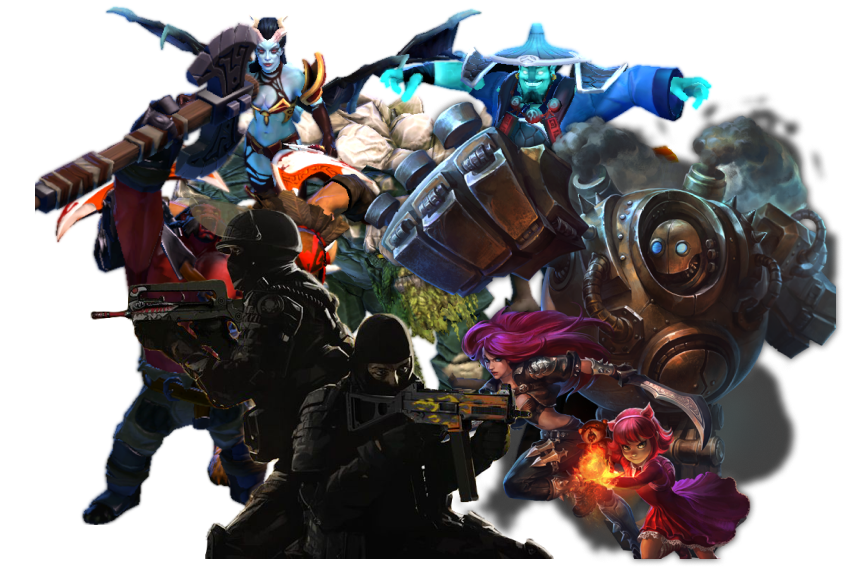
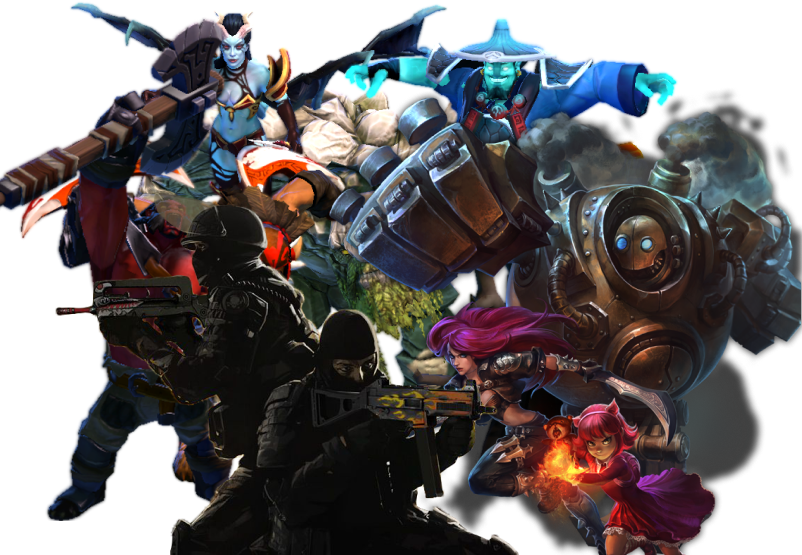
feat: edit hero bg, hero auto width

diff --git a/css/blocks/_hero.scss b/css/blocks/_hero.scss
@@ -6,54 +6,44 @@
     position: relative;
     height: 100vh;
     height: calc(95vh - 110px);
-    max-height: 1080px;
     margin: 0 auto;
     margin-top: 44px;
     padding-bottom: 44px;
     margin-bottom: 64px;
     position: relative;
     width: 1280px;
-    background: right bottom / 55% auto no-repeat
-    url('./../assets/img/hero__bg.png');
-    &::before {
-      position: absolute;
-      content: '';
-      transition: 0.5s;
-      z-index: 10;
-      background-color: $green;
-      border-radius: 4px 0 0 4px;
-      height: 8px;
-      width: 50%;
-      right: 0;
-      bottom: 0px;
-    }
 
-    &--main {
-      background: right bottom / 55% auto no-repeat
-        url('./../assets/img/hero__bg.png');
+    &--width {
+      height: 696px;
     }
-    &--csgo {
-      background: right bottom / 50% auto no-repeat
-        url('./../assets/img/hero__bg--csgo.png');
-      &::before {
-        background-color: $csgo;
-        // bottom: -3px;
-      }
-    }
-    &--dota {
-      background: right bottom / 50% auto no-repeat
-        url('https://it-events.com/system/event_photos/imgs/000/013/288/original/hero__bg--dota.png');
-        &::before {
-          background-color: $dota;
-        }
-    }
-    &--lol {
-      background: right bottom / 45% auto no-repeat
-        url('https://it-events.com/system/event_photos/imgs/000/013/287/original/hero__bg--lol.png');
-        &::before {
-          background-color: $lol;
-        }
-    }
+    // background: right bottom / 55% auto no-repeat
+    // url('./../assets/img/hero__bg.png');
+
+    // &--main {
+    //   background: right bottom / 55% auto no-repeat
+    //     url('./../assets/img/hero__bg.png');
+    // }
+    // &--csgo {
+    //   background: right bottom / 50% auto no-repeat url('./../assets/img/hero__bg--csgo.png');
+    //   &::before {
+    //     background-color: $csgo;
+    //     // bottom: -3px;
+    //   }
+    // }
+    // &--dota {
+    //   background: right bottom / 50% auto no-repeat
+    //     url('https://it-events.com/system/event_photos/imgs/000/013/288/original/hero__bg--dota.png');
+    //     &::before {
+    //       background-color: $dota;
+    //     }
+    // }
+    // &--lol {
+    //   background: right bottom / 45% auto no-repeat
+    //     url('https://it-events.com/system/event_photos/imgs/000/013/287/original/hero__bg--lol.png');
+    //     &::before {
+    //       background-color: $lol;
+    //     }
+    // }
   }
   &__content {
     width: 50%;
@@ -65,20 +55,59 @@
   &__bg {
     width: 50%;
     display: flex;
-    background: bottom -10px right / contain no-repeat url('https://it-events.com/system/event_photos/imgs/000/013/286/original/hero__bg.png');
+    // background: bottom -10px right / contain no-repeat url('https://it-events.com/system/event_photos/imgs/000/013/286/original/hero__bg.png');
   }
   &__pic {
     display: flex;
     align-items: flex-end;
-    height: 50%;
+    height: 68%;
     width: 100%;
     overflow: hidden;
+    position: relative;
+    padding-bottom: 8px;
+
+    background: center / contain no-repeat url('./../assets/img/hero__bg.png');
+    align-self: center;
+    &::before {
+      position: absolute;
+      content: '';
+      z-index: 10;
+      background-color: $green;
+      border-radius: 4px 0 0 4px;
+      height: 8px;
+      width: 100%;
+      right: 0;
+      bottom: 0px;
+    }
+    &--main {
+      background: center / contain no-repeat url('./../assets/img/hero__bg.png');
+    }
+    &--csgo {
+      background: center / contain no-repeat url('./../assets/img/hero__bg--csgo.png');
+      &::before {
+        background-color: $csgo;
+      }
+    }
+    &--dota {
+      background: center / contain no-repeat
+        url('https://it-events.com/system/event_photos/imgs/000/013/288/original/hero__bg--dota.png');
+      &::before {
+        background-color: $dota;
+      }
+    }
+    &--lol {
+      background: center / contain no-repeat
+        url('https://it-events.com/system/event_photos/imgs/000/013/287/original/hero__bg--lol.png');
+      &::before {
+        background-color: $lol;
+      }
+    }
   }
-  &__img {
-    height: 100%;
-    width: 100%;
-    object-fit: contain;
-  }
+  // &__img {
+  //   height: 100%;
+  //   width: 100%;
+  //   object-fit: contain;
+  // }
   &__title {
     font-weight: bold;
     font-size: 49px;

diff --git a/css/main.css b/css/main.css
@@ -2626,55 +2626,16 @@ h3 {
   position: relative;
   height: 100vh;
   height: calc(95vh - 110px);
-  max-height: 1080px;
   margin: 0 auto;
   margin-top: 44px;
   padding-bottom: 44px;
   margin-bottom: 64px;
   position: relative;
   width: 1280px;
-  background: right bottom/55% auto no-repeat url("./../assets/img/hero__bg.png");
 }
 
-.hero-section::before {
-  position: absolute;
-  content: '';
-  transition: 0.5s;
-  z-index: 10;
-  background-color: #93c11a;
-  border-radius: 4px 0 0 4px;
-  height: 8px;
-  width: 50%;
-  right: 0;
-  bottom: 0px;
-}
-
-.hero-section--main {
-  background: right bottom/55% auto no-repeat url("./../assets/img/hero__bg.png");
-}
-
-.hero-section--csgo {
-  background: right bottom/50% auto no-repeat url("./../assets/img/hero__bg--csgo.png");
-}
-
-.hero-section--csgo::before {
-  background-color: #45bbfe;
-}
-
-.hero-section--dota {
-  background: right bottom/50% auto no-repeat url("https://it-events.com/system/event_photos/imgs/000/013/288/original/hero__bg--dota.png");
-}
-
-.hero-section--dota::before {
-  background-color: #fe4545;
-}
-
-.hero-section--lol {
-  background: right bottom/45% auto no-repeat url("https://it-events.com/system/event_photos/imgs/000/013/287/original/hero__bg--lol.png");
-}
-
-.hero-section--lol::before {
-  background-color: #ff00e5;
+.hero-section--width {
+  height: 696px;
 }
 
 .hero__content {
@@ -2688,21 +2649,58 @@ h3 {
 .hero__bg {
   width: 50%;
   display: flex;
-  background: bottom -10px right/contain no-repeat url("https://it-events.com/system/event_photos/imgs/000/013/286/original/hero__bg.png");
 }
 
 .hero__pic {
   display: flex;
   align-items: flex-end;
-  height: 50%;
+  height: 68%;
   width: 100%;
   overflow: hidden;
+  position: relative;
+  padding-bottom: 8px;
+  background: center/contain no-repeat url("./../assets/img/hero__bg.png");
+  align-self: center;
 }
 
-.hero__img {
-  height: 100%;
+.hero__pic::before {
+  position: absolute;
+  content: '';
+  z-index: 10;
+  background-color: #93c11a;
+  border-radius: 4px 0 0 4px;
+  height: 8px;
   width: 100%;
-  object-fit: contain;
+  right: 0;
+  bottom: 0px;
+}
+
+.hero__pic--main {
+  background: center/contain no-repeat url("./../assets/img/hero__bg.png");
+}
+
+.hero__pic--csgo {
+  background: center/contain no-repeat url("./../assets/img/hero__bg--csgo.png");
+}
+
+.hero__pic--csgo::before {
+  background-color: #45bbfe;
+}
+
+.hero__pic--dota {
+  background: center/contain no-repeat url("https://it-events.com/system/event_photos/imgs/000/013/288/original/hero__bg--dota.png");
+}
+
+.hero__pic--dota::before {
+  background-color: #fe4545;
+}
+
+.hero__pic--lol {
+  background: center/contain no-repeat url("https://it-events.com/system/event_photos/imgs/000/013/287/original/hero__bg--lol.png");
+}
+
+.hero__pic--lol::before {
+  background-color: #ff00e5;
 }
 
 .hero__title {

diff --git a/script/script.js b/script/script.js
@@ -1,5 +1,6 @@
 const hero__btns = document.querySelector('.hero__btns');
-const hero__section = document.querySelector('.hero-section');
+const hero__pic = document.querySelector('.hero__pic');
+const heroSection = document.querySelector('.hero-section');
 const section__titles = document.querySelectorAll('.section__title');
 const buttons = document.querySelectorAll('.button');
 const format__items = document.querySelectorAll('.format__item');
@@ -16,6 +17,9 @@ const pop_up__img = document.querySelector('.pop-up-about__img');
 const pop_up_about = document.querySelector('.pop-up-about');
 const body = document.body;
 
+if (window.innerHeight > window.innerWidth) {
+  heroSection.classList.add('hero-section--width')
+}
 body.addEventListener('click', (event) => {
   if (event.target === about__img) {
     togglePopUp();
@@ -63,8 +67,8 @@ function changeBtn(btn) {
   // hero__line.className = 'hero__line';
   // hero__line.classList.add(`hero__line--${btn.id}`);
 
-  hero__section.className = 'section section--margin hero-section';
-  hero__section.classList.add(`hero-section--${btn.id}`);
+  hero__pic.className = 'hero__pic';
+  hero__pic.classList.add(`hero__pic--${btn.id}`);
 
   section__titles.forEach((element) => {
     element.classList.remove(`section__title--${prevTheme}`);

diff --git a/index.html b/index.html
@@ -80,6 +80,11 @@
             ></a>
           </div>
         </div>
+        <div class="hero__bg">
+          <div class="hero__pic">
+            <!-- <img src="./assets/img/hero__bg--csgo.png" alt="" class="hero__img" /> -->
+          </div>
+        </div>
       </div>
     </section>
     <section class="section section--margin about">
